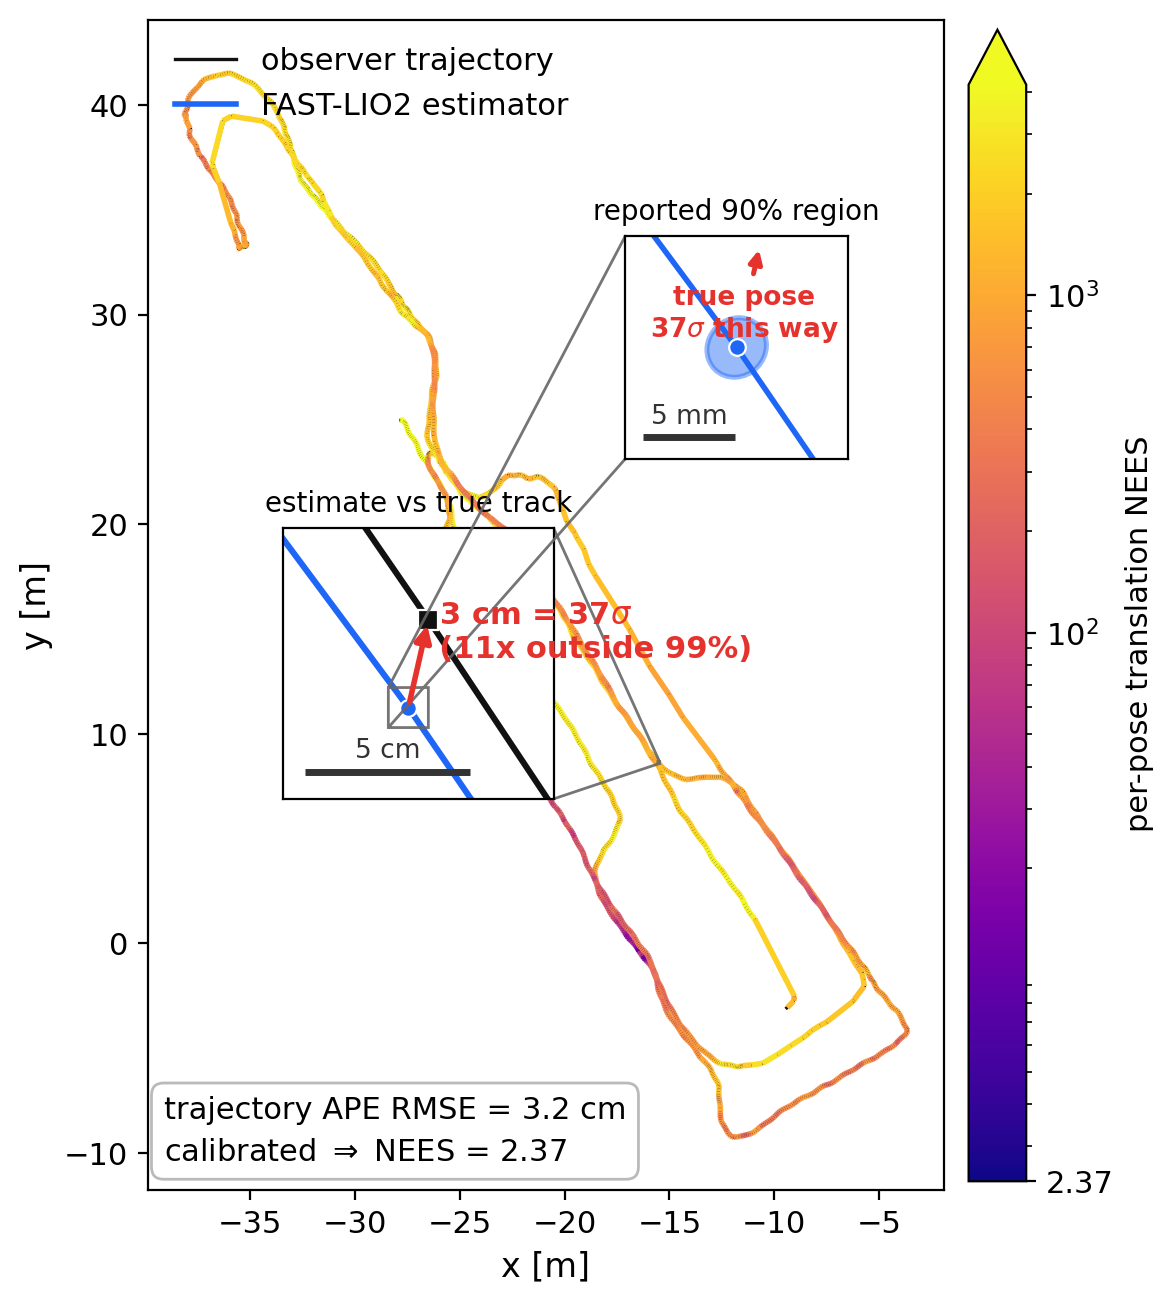
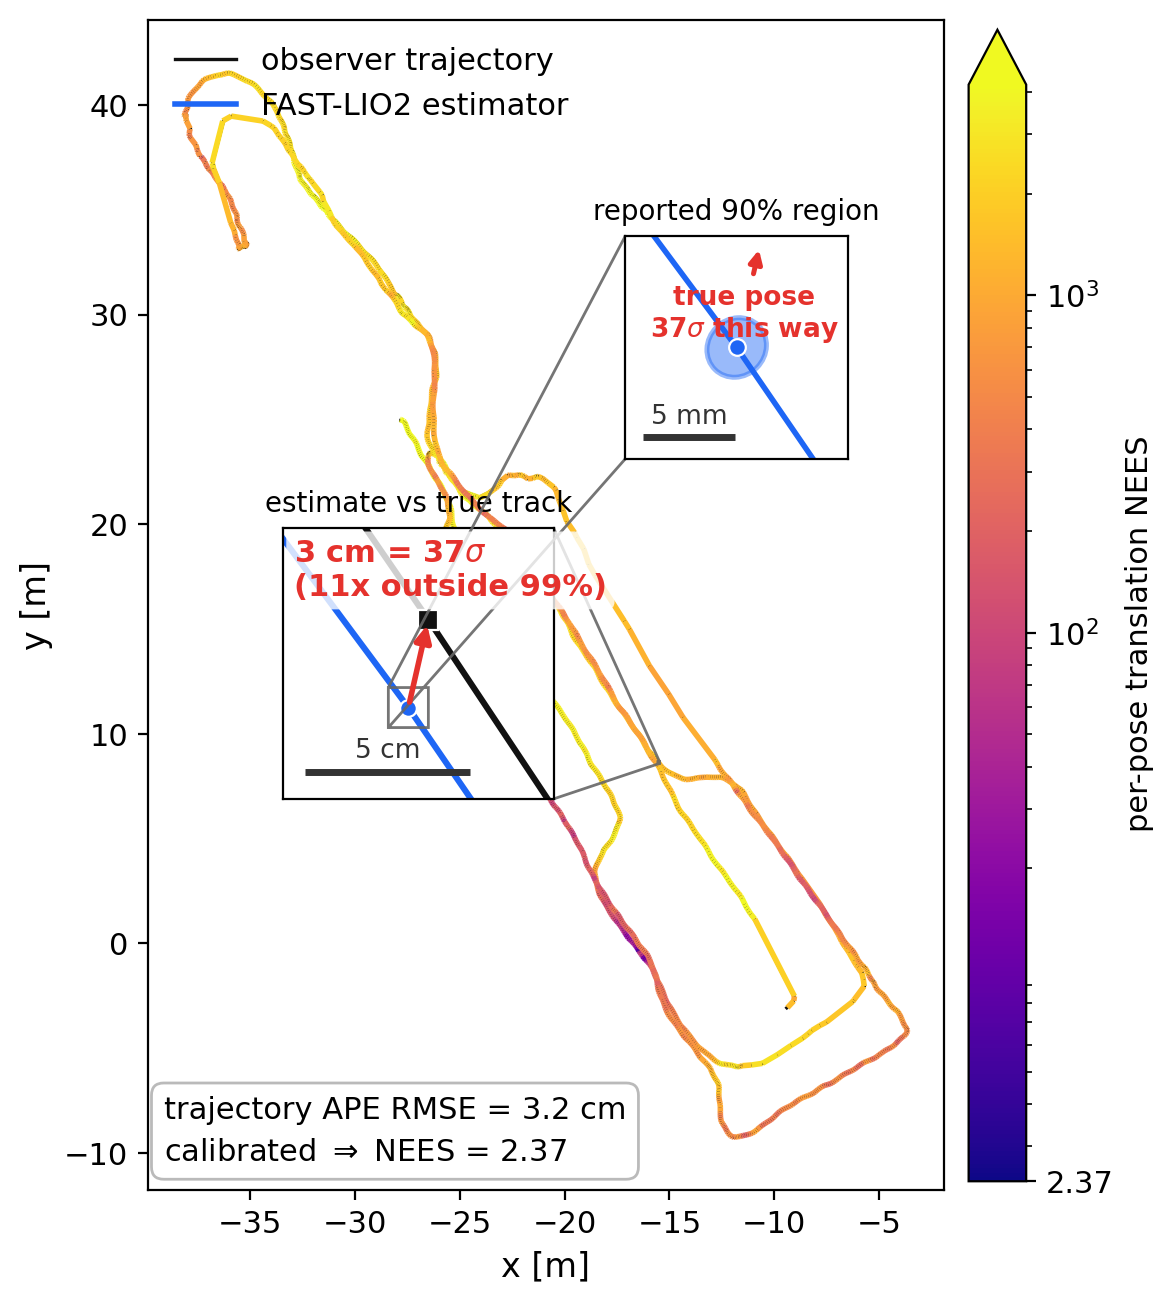
docs: declutter the zoom A label in the figure
- move the "37 sigma / 11x outside 99%" label to the inset corner with a white backing, so it no longer overlaps the trajectory lines

Changed region(s): [[0.2455, 0.3991, 0.6445, 0.5219]]

diff --git a/notebooks/figure_overconfidence.py b/notebooks/figure_overconfidence.py
@@ -240,10 +240,11 @@ def main() -> int:
   insA.plot(*p_gt, "s", color=C_GT, ms=7, mec="white", mew=0.8, zorder=4)
   insA.annotate("", xy=p_gt, xytext=p_est, arrowprops=dict(arrowstyle="-|>", color=C_ERR, lw=2.0), zorder=5)
   insA.text(
-    c[0], c[1],
-    f"  {err_m * 100:.0f} cm = {z:.0f}$\\sigma$\n  ({mult99:.0f}x outside 99%)",
-    color=C_ERR, fontsize=11, fontweight="bold", va="bottom", ha="left",
-    zorder=6,
+    0.04, 0.96,
+    f"{err_m * 100:.0f} cm = {z:.0f}$\\sigma$\n({mult99:.0f}x outside 99%)",
+    transform=insA.transAxes, color=C_ERR, fontsize=11, fontweight="bold",
+    va="top", ha="left", zorder=6,
+    bbox=dict(boxstyle="round,pad=0.25", fc="white", ec="none", alpha=0.8),
   )
   insA.set_xlim(c[0] - halfA, c[0] + halfA)
   insA.set_ylim(c[1] - halfA, c[1] + halfA)